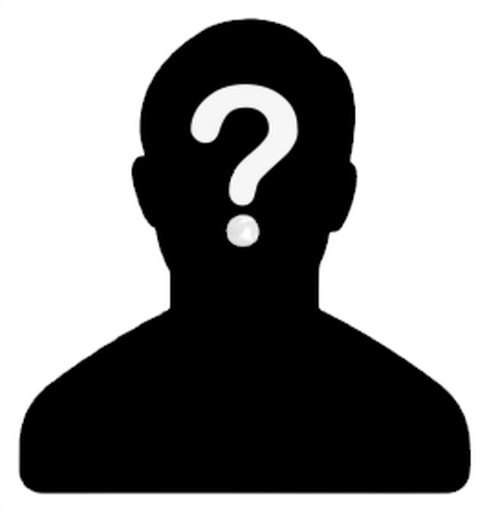
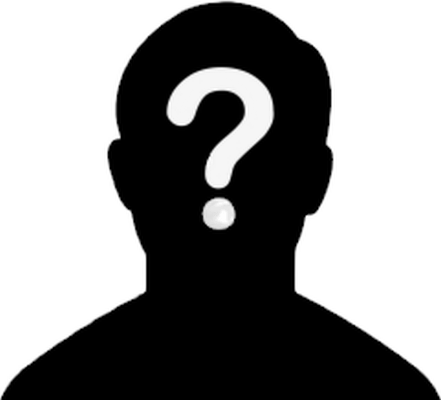
.

diff --git a/index.html b/index.html
@@ -66,8 +66,9 @@
             <img src="img/svg3.png">
             <div class="donor-info"></div>
         </div>
-        <div class="donor-item" style="border-radius: 50%; overflow: hidden; background: #ffffff49; ">
-            <img style="bottom: -50px; " src="img/who.png">
+        <div class="donor-item">
+            <img style="border-radius: 50%; background: linear-gradient(90deg, #bdbdbd80, #8f8f8f67);"
+                src="img/who.png">
             <div class="donor-info"></div>
         </div>
     </section>
